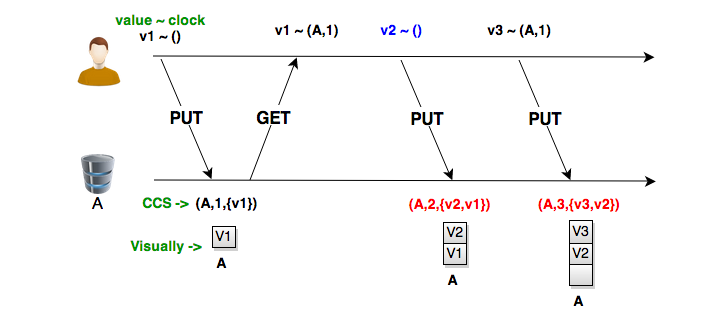
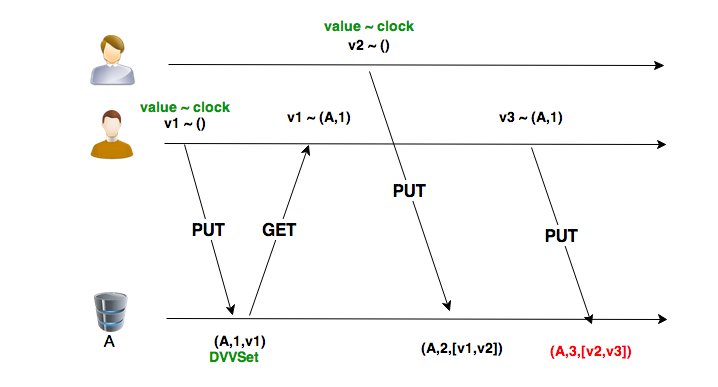
Removed new2/1/2 and now new/1/2 receive a list of values. Updated readme.

diff --git a/README.md b/README.md
@@ -21,8 +21,8 @@ Therefore, this data structure abstracts the process of tracking and reasoning a
 
 ## Why not Version Vectors (Vector Clocks)?
 
-First, [Version Vectors are not Vector Clocks][blog VV are not VC]. We are targeting Version Vectors (VV) in this case. Specifically, VV are not suited to support conflicting values. When using VV, we couple a value to a VV, and if we try to reconcile two values using their VV, sometimes we have conflicts and want to keep both values. In this situation, want to do with their VV? We have a couple of options: (#1) keep both values and both VV; (#2) keep both values and merge their VV.
-Let's analyze each option with an example with one server, one client (or multiple, since it does does not matter in this case) reading and writing to a single key-value.
+First, [Version Vectors are not Vector Clocks][blog VV are not VC]. We are targeting Version Vectors (VV) in this case. Specifically, VV are not suited to support conflicting values. When using VV, we map a value to a VV, and if we try to reconcile two values using their VV, sometimes we have conflicts and want to keep both values. In this situation, want to do with their VV? We have a couple of options: (#1) keep both values and both VV; (#2) keep both values and merge their VV.
+Let's analyze each option with an example with one server and two clients reading and writing to a single key.
 
 
 #### Approach #1 - **Keep both**:
@@ -42,7 +42,7 @@ Another solution is to keep both values and merge their VV into one, which saves
 
 ![VV with conflicts #2][VV 2]
 
-**Problem**: We lose the information that *v2* was associated with (A,2) and not (A,3). In the third write we can see how this approach could lead to **false conflicts**. *v3* is being written with (A,1), therefore we know that it should win over *v1* and conflict with *v3*, but since we lost information about the causal past of *v1*, the server has no other option but to keep all three values and merge the VV again. Now the problem is even worse, since we are saying that all three values are related to (A,3). It's easy to see that this could lead to undesired behavior and an explosion of false conflicts.
+**Problem**: We lose the information that *v1* was associated with (A,1) and not (A,2). In the third write we can see how this approach could lead to **false conflicts**. *v3* is being written with (A,1), therefore we know that it should win over *v1* and conflict with *v2*, but since we lost information about the causal past of *v1*, the server has no other option but to keep all three values and merge the VV again. Now the problem is even worse, since we are saying that all three values are related to (A,3). It's easy to see that this could lead to undesired behavior and an explosion of false conflicts.
 
 
 
@@ -86,24 +86,25 @@ Here is an (Erlang) example using `reconcile`:
 ```Erlang
     F = fun (L) -> lists:sum(L) end,
     DVVSet = {[{a,4,[5,2]}, {b,1,[]}], [10,1]},
-    Res = reconcile(F, DVVSet),
+    Res = dvvset:reconcile(F, DVVSet),
     {[{a,4,[]}, {b,1,[]}], [18]} = Res.
 ```
 
 We pass to `reconcile` a function that adds all values. The returning DVVSet has the same causal information, but now has only one value (18), which was not present in the previous DVVSet. Thus, we store it in the anonymous list.
 
-There is a special case of reconcile, named **last-write-wins** (lww), where we also want to reduce all values to a single one, but that value *must* be already present in the DVVSet. Thus, we let the winning value stay in the same triplet as it was before. This function named `lww` has the same parameters as `reconcile`, but the function now takes two values and returns true if the first is newer than the second, or false otherwise. Using `lww`, it is impossible to have two DVVSet comparing equal and having different values.
+There is a special case of reconcile, named **last-write-wins** (lww), where we also want to reduce all values to a single one, but that value *must* be already present in the DVVSet. Thus, we let the winning value stay in the same triplet as it was before. This function named `lww` has the same parameters as `reconcile`, but the function is a **less or equal** [ordering function][ord fun], from which we keep the greater value of all (*note*: we preemptively discard values in a triplet that are not the last, meaning we only take the head of the list in each triplet). Thus, `Fun(A,B)` returns `true` if A compares less than or equal to B, `false` otherwise. 
+Using `lww`, it is impossible to have two DVVSet comparing equal and having different values (provided that the ordering function used is the same).
 
-Here is an (Erlang) example of `lww`:
+Here is an (Erlang) example of using `lww` in a DVVSet with values types `{Value, Timestamp}`:
 
 ```Erlang
-    F = fun (A,B) -> A > B end,
-    DVVSet = {[{a,4,[5,2]}, {b,1,[1]}], [3]},
-    Res = lww(F, DVVSet),
-    {[{a,4,[5]},{b,1,[]}],[]} = Res.
+    Fun = fun ({_,TS1}, {_,TS2}) -> TS1 =< TS2 end,
+    DVVSet = {[{a,4,[{5, 1002345}, {7, 1002340}]}, {b,1,[{4, 1001340}]}], [{2, 1001140}]},
+    Res = dvvset:lww(Fun, DVVSet),
+    {[{a,4,[{5, 1002345}]}, {b,1,[]}], []} = Res.
 ```
 
-We use a function that simply picks the highest value between two values, and use it to sort out which value is the "latest" according to this function. Naturally, in this case it is value 5. Notice how it stay in its original triplet instead of going to anonymous list.
+We define a *less or equal* function for our type of values and use it in `lww`, which return a DVVSet with the same causal information, but only with the *greatest* value remaining. Naturally, in this case it's {5, 1002345}, which has the highest timestamp. Notice how the *winning* value stays in its original triplet instead of going to anonymous list, unlike `reconcile`.
 
 
 ## How to use
@@ -114,7 +115,7 @@ The major use case we thought for DVVSet was a client-server system like a distr
 
     ```Erlang
         %% create a new DVVSet for the new value V
-        NewDVVSet = dvvset:new(V),
+        NewDVVSet = dvvset:new([V]),
         %% update the causal history of DVVSet using the server identifier
         DVVSet = dvvset:update(NewDVVSet, ServerID),
         %% store DVVSet...
@@ -136,7 +137,7 @@ The major use case we thought for DVVSet was a client-server system like a distr
 
     ```Erlang
         %% create a new DVVSet for the new value V, using the client's version vector VV
-        NewDVVSet = dvvset:new(VV, V),
+        NewDVVSet = dvvset:new(VV, [V]),
         %% update the new DVVSet with the local server DVVSet and the server ID
         DVVSet = dvvset:update(NewDVVSet, LocalDVVSet, ServerID),
         %% store DVVSet...
@@ -167,7 +168,7 @@ The major use case we thought for DVVSet was a client-server system like a distr
 
     ```Erlang
         %% create a new DVVSet for the new value, using the client's version vector
-        NewDVVSet = dvvset:new(VV, V),
+        NewDVVSet = dvvset:new(VV, [V]),
         %% update the new DVVSet with the local server DVVSet and the server ID
         UpdDVVSet = dvvset:update(NewDVVSet, LocalDVVSet, ServerID),
         %% preserve the causal information of UpdDVVSet, but keep only 1 value 
@@ -175,7 +176,7 @@ The major use case we thought for DVVSet was a client-server system like a distr
         DVVSet = dvvset:lww(F, UpdDVVSet)
         %% store DVVSet...
     ```
-    We could do only `DVVSet = new(V)` and write DVVSet immediately, saving the cost of a local read, but generally its safer to preserve causal information, especially if the *lww* policy can be turn on and off per request or changed during a key lifetime;
+    We could do only `DVVSet = dvvset:new([V])` and write DVVSet immediately, saving the cost of a local read, but generally its safer to preserve causal information, especially if the *lww* policy can be turn on and off per request or changed during a key lifetime;
 
 
 
@@ -195,5 +196,6 @@ Feel free to clone it and confirm that *It Works (TM)* :) (don't forget to turn 
 [DVVSet1]: images/DVVS1.png
 [DVVSet2]: images/DVVS2.png
 [DVVSet3]: images/DVVS3.png
+[ord fun]: http://www.erlang.org/doc/man/lists.html#ordering_function
 [riak site]: http://basho.com/
 [riak github]: https://github.com/basho/riak
